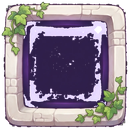
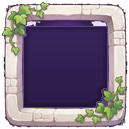
Settle camera on load, solid timer dial, clean spell tiles
Hide the inset-anchored camera until fonts and frame art have loaded so it no
longer jumps, remove the camera toggle, fill the clock frame's see-through
centre with a solid dial and enlarge it, repaint the aged inner panel of the
spell tile, and fit the tile status text inside the panel.

Changed region(s): [[0.155, 0.186, 0.8372, 0.8372], [0.5271, 0.4651, 0.5891, 0.5271], [0.4341, 0.4031, 0.4651, 0.4341]]

diff --git a/client/src/hud/DuelScreen.tsx b/client/src/hud/DuelScreen.tsx
@@ -79,6 +79,8 @@ export function DuelScreen({ source, hotseat = false, rematchLabel = "Duel again
   const scene = useRef<ArenaScene | null>(null);
   // The arena fills the screen; the HUD floats over it, so tell the scene what is covered.
   const [insets, setInsets] = useState({ top: 0, bottom: 0 });
+  // The HUD's height changes as web fonts and frame art load; hold back inset-anchored panels until it settles.
+  const [settled, setSettled] = useState(false);
   const frame = useRef<ArenaFrame>({ state, now, leftSlot: source.localSlot, map, insets });
   frame.current = { state, now, leftSlot: source.localSlot, map, insets };
   const clock = useRef(source);
@@ -207,7 +209,18 @@ export function DuelScreen({ source, hotseat = false, rematchLabel = "Duel again
     const observer = new ResizeObserver(measure);
     if (top.current) observer.observe(top.current);
     if (bottom.current) observer.observe(bottom.current);
-    return () => observer.disconnect();
+    let cancelled = false;
+    void Promise.all([document.fonts.ready, new Promise((resolve) => (document.readyState === "complete" ? resolve(null) : window.addEventListener("load", resolve, { once: true })))]).then(() =>
+      requestAnimationFrame(() => {
+        if (cancelled) return;
+        measure();
+        setSettled(state !== null);
+      }),
+    );
+    return () => {
+      cancelled = true;
+      observer.disconnect();
+    };
   }, [state !== null]);
 
   useEffect(() => {
@@ -252,7 +265,7 @@ export function DuelScreen({ source, hotseat = false, rematchLabel = "Duel again
     : "";
 
   return (
-    <main className={`duel${shakeClass}`} data-arena={state?.stageId === undefined ? map : MAP_ORDER[state.stageId] ?? map} style={{ "--top-inset": `${insets.top}px`, "--bottom-inset": `${insets.bottom}px` } as React.CSSProperties}>
+    <main className={`duel${shakeClass}${settled ? " settled" : ""}`} data-arena={state?.stageId === undefined ? map : MAP_ORDER[state.stageId] ?? map} style={{ "--top-inset": `${insets.top}px`, "--bottom-inset": `${insets.bottom}px` } as React.CSSProperties}>
       <div className={`duel-stage phase-${state?.phase ?? "waiting"}`}>
         <div className="duel-canvas" ref={host} />
         <RisingEmbers />

diff --git a/client/src/styles.css b/client/src/styles.css
@@ -2959,3 +2959,26 @@ body {
   .clock { width: 112px; height: 104px; }
   .clock-time { font-size: 22px; }
 }
+
+/* Hold the camera panel back until the HUD above it has its final height. */
+.duel:not(.settled) .gesture-cam { visibility: hidden; }
+
+/* Larger sun-frame timer: the solid dial fits the round clock comfortably. */
+.clock { width: 236px; height: 216px; }
+.clock-label { font-size: 10px; margin-top: 2px; }
+.clock-time { font-size: 30px; }
+.clock-progress { width: 64px; }
+@media (max-width: 760px) {
+  .clock { width: 140px; height: 128px; }
+  .clock-time { font-size: 20px; }
+}
+
+/* Spell tiles: keep the status word inside the panel. */
+.spell-state {
+  font: 700 14px var(--font-rune);
+  letter-spacing: 0.04em;
+  max-width: 64%;
+  text-align: center;
+  line-height: 1.1;
+}
+@media (max-width: 760px) { .spell-state { font-size: 11px; } }

diff --git a/client/src/gesture/GestureCamera.tsx b/client/src/gesture/GestureCamera.tsx
@@ -237,7 +237,6 @@ export function GestureCamera({
         </div>
       </details> : <>
         {raceTarget && enabled && <button className="gesture-cam-toggle" onClick={() => controllerRef.current?.retryFaceTracking()}>Retry face tracking</button>}
-        <button className="gesture-cam-toggle" onClick={toggle}>{enabled ? "Turn camera off" : "Cast with your camera"}</button>
       </>}
     </aside>
     </>
